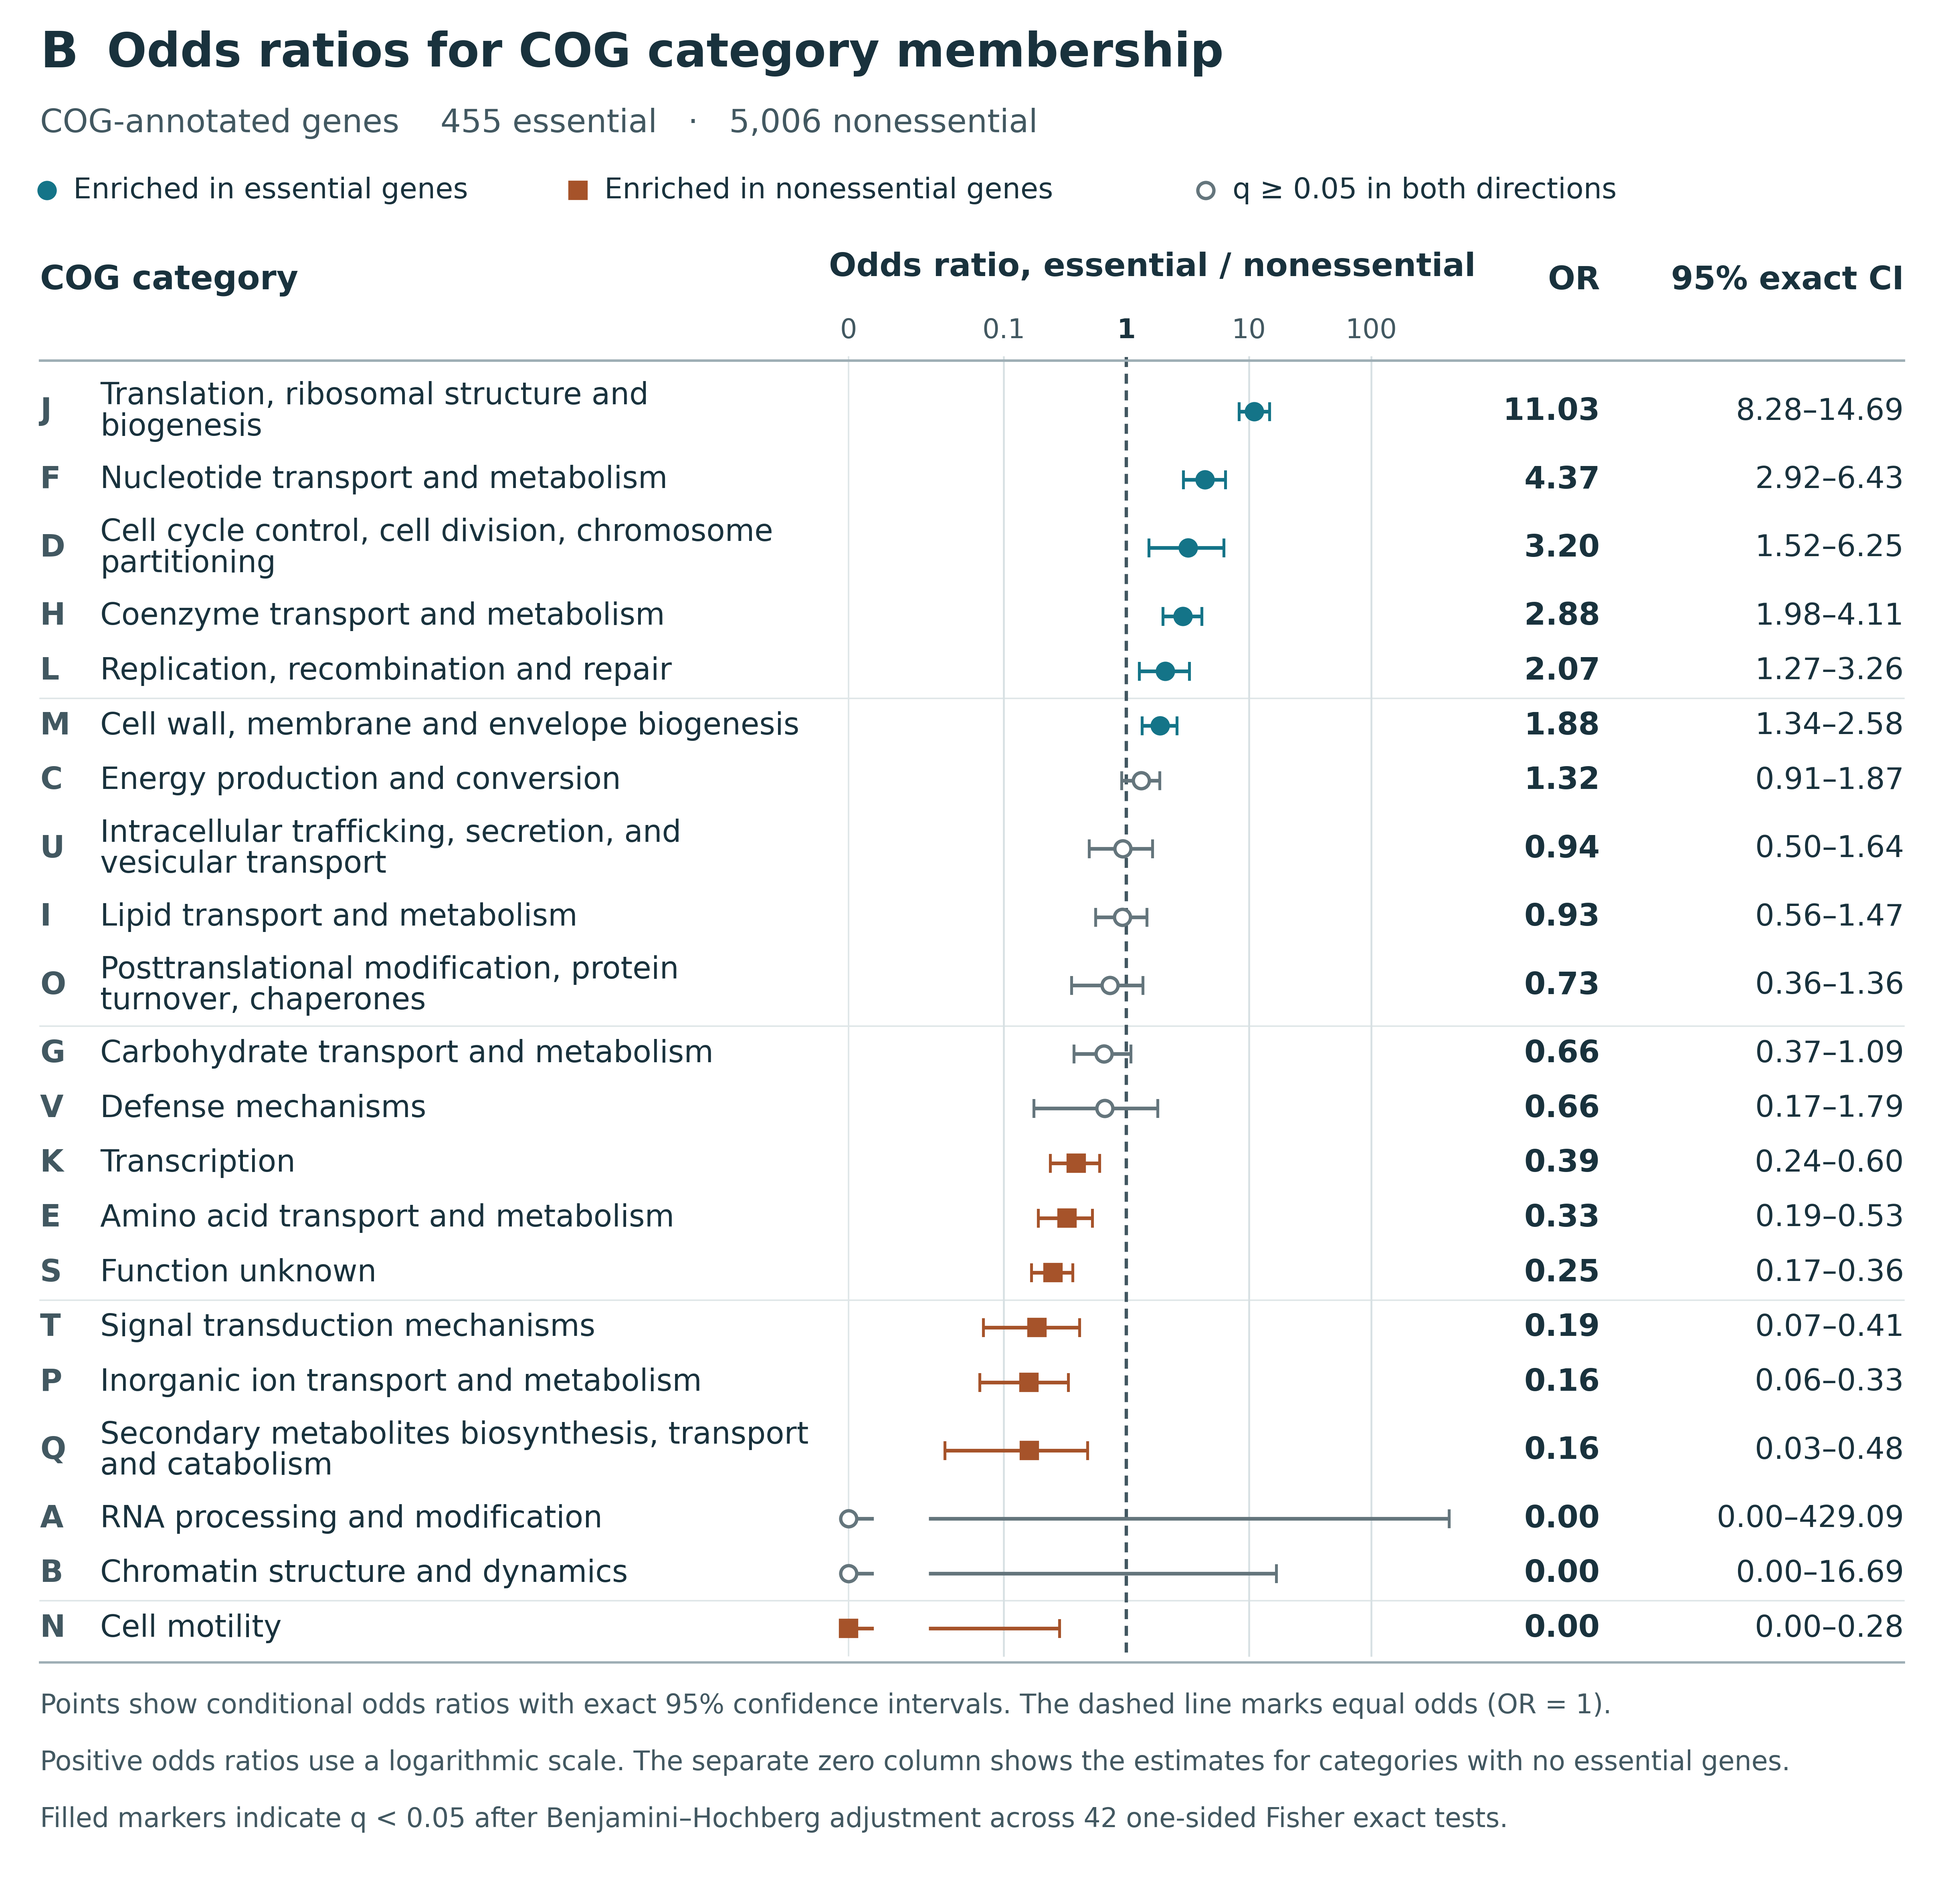
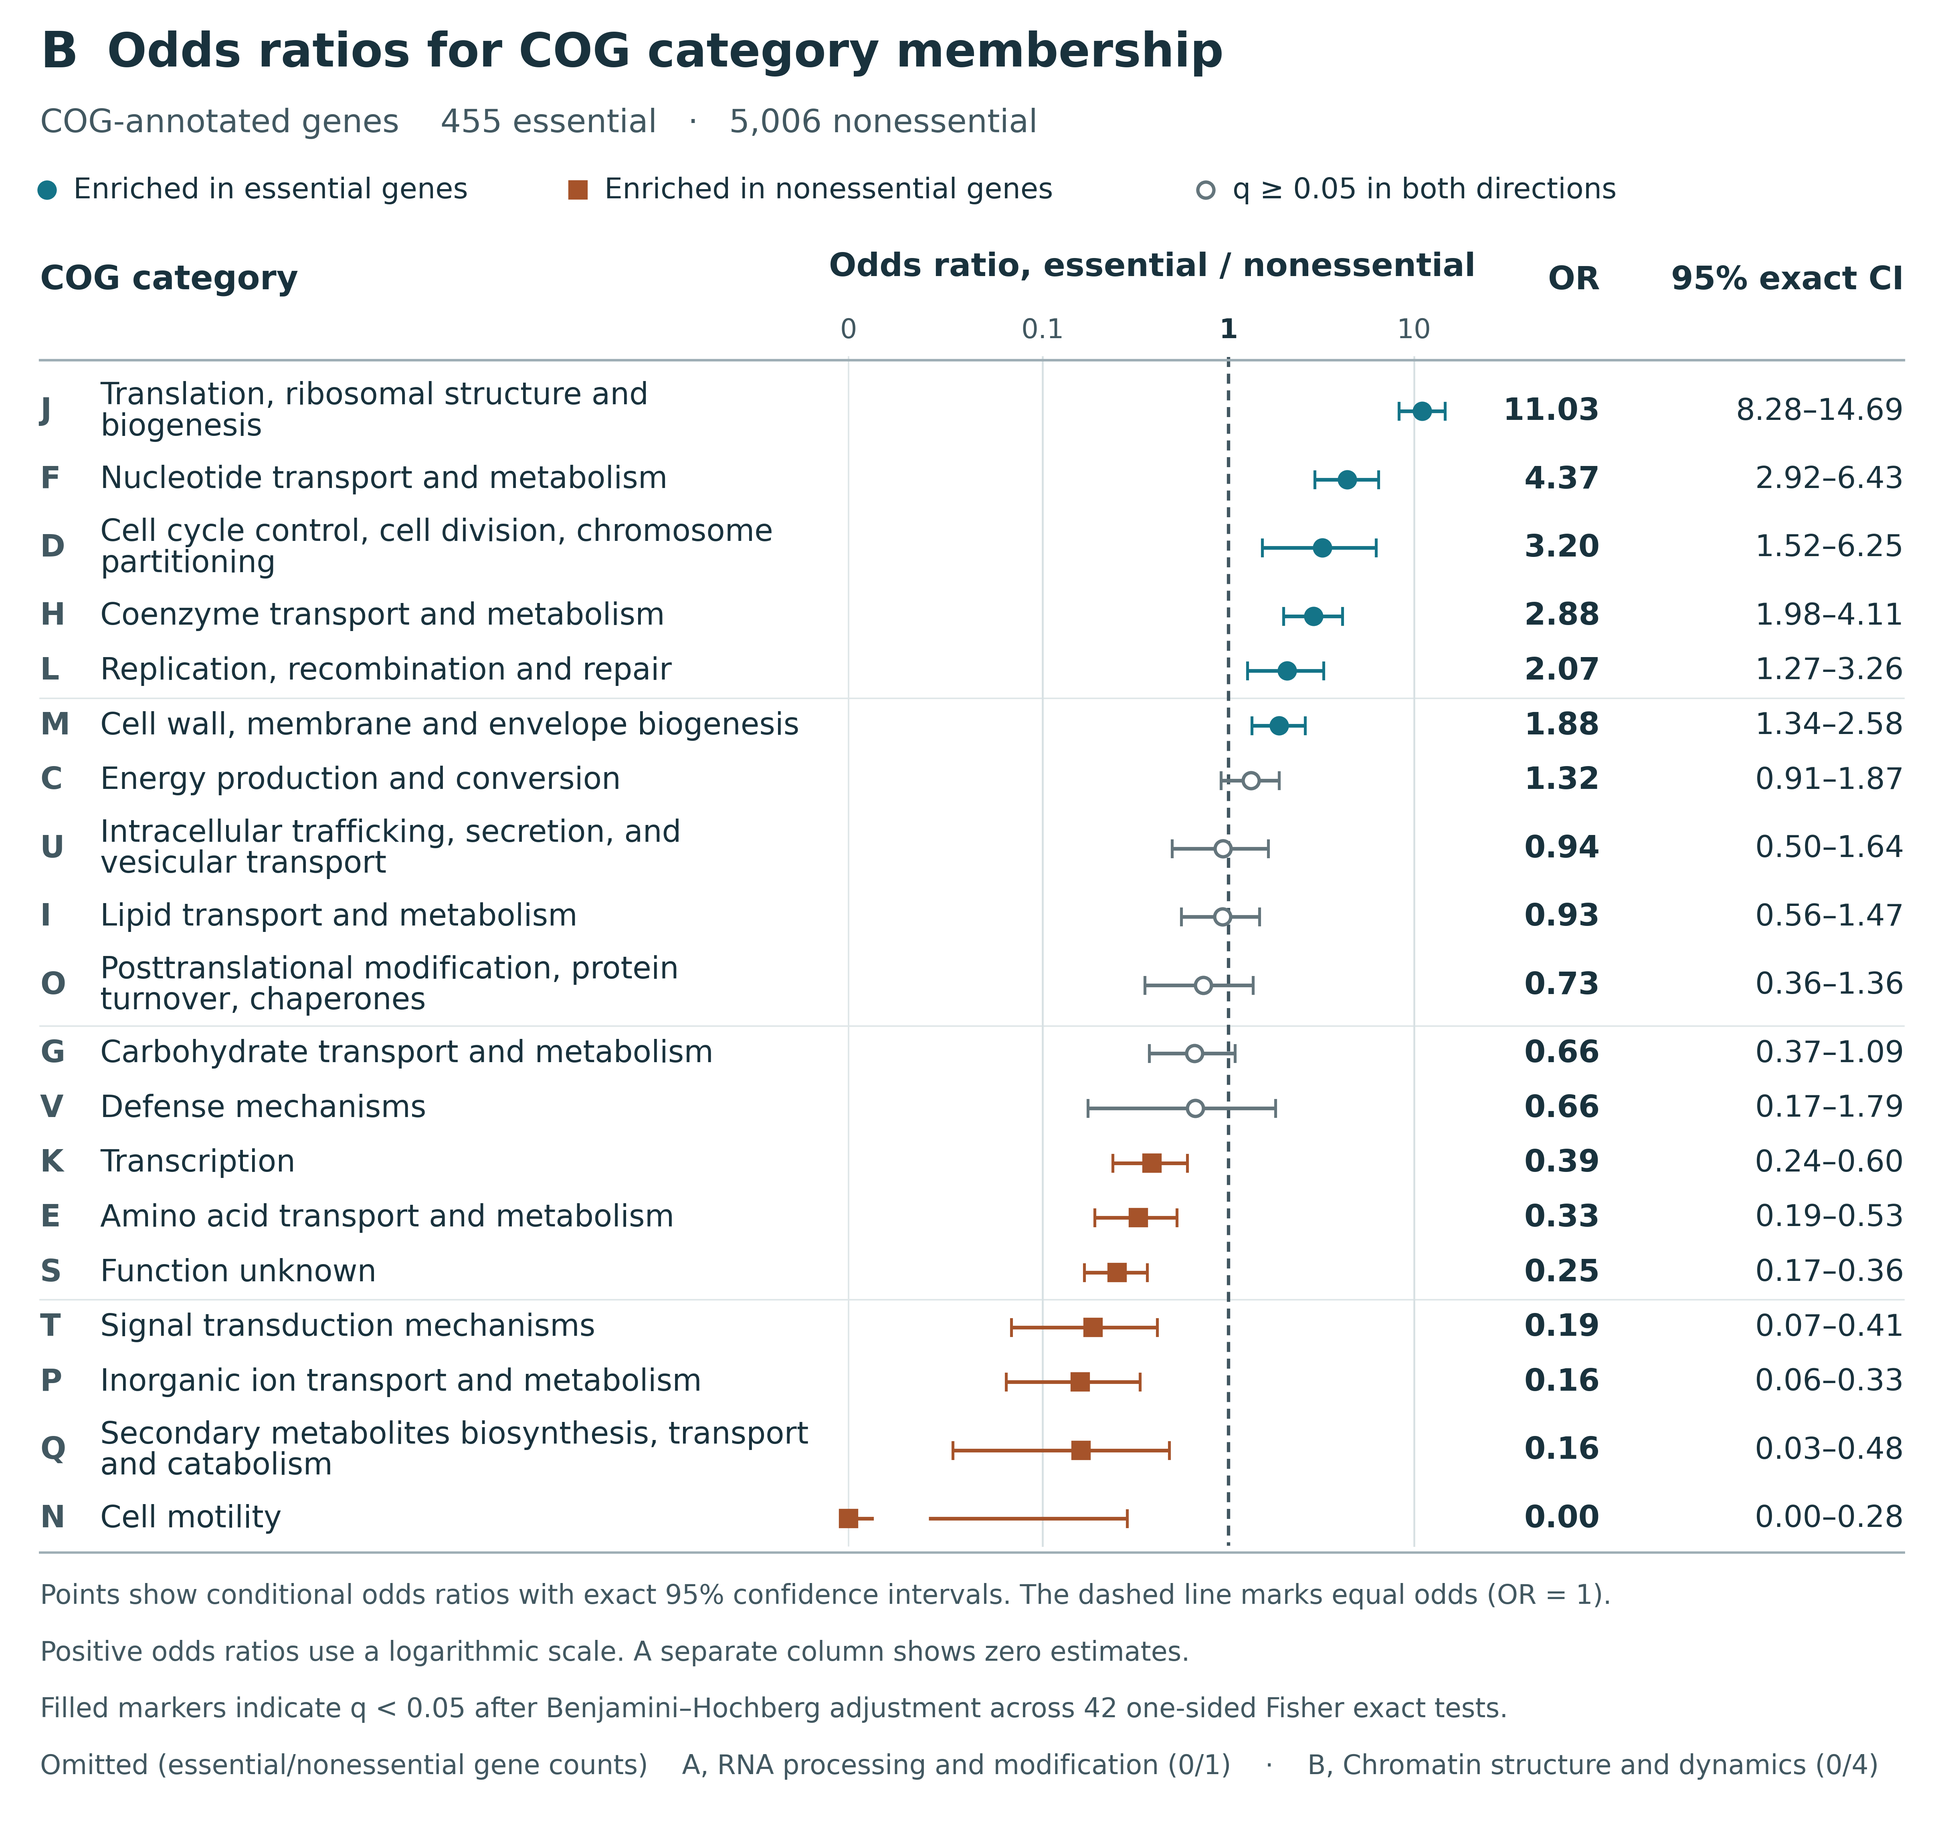
Report sparse COG categories in the Figure 4B legend

diff --git a/figures/figure_4/plot_figure_4b.py b/figures/figure_4/plot_figure_4b.py
@@ -16,7 +16,8 @@ ratio. The interval is its two-sided, equal-tailed exact 95% confidence
 interval conditional on the margins, without a pseudocount. The p and q values
 come from the two directional Fisher tests per category in Figure 4A, with a
 single Benjamini-Hochberg adjustment across all categories and directions.
-The categories follow the order of the prevalence ratios in Figure 4A.
+The plotted categories follow the order of the prevalence ratios in Figure 4A.
+Categories A and B are retained in the statistical results and listed in the figure legend.
 """
 
 import argparse
@@ -44,6 +45,7 @@ OR = "conditional_odds_ratio_essential_vs_nonessential"
 LOW = "exact_95ci_lower"
 HIGH = "exact_95ci_upper"
 COLUMNS = ("COG", "category", *COUNTS, OR, LOW, HIGH, *TESTS)
+LEGEND_ONLY = {"A", "B"}
 
 
 def read_table(path):
@@ -101,6 +103,12 @@ def prepare(data):
 
 def draw(data):
     entries, (essential_total, nonessential_total) = prepare(data)
+    test_count = 2 * len(entries)
+    entries = [entry for entry in entries if entry[0] not in LEGEND_ONLY]
+    if not entries:
+        raise ValueError("No categories remain to display.")
+    omitted = [f"{r['COG']}, {r['category']} ({r['essential_in_category']}/{r['nonessential_in_category']})"
+               for r in sorted(data, key=lambda r: r["COG"]) if r["COG"] in LEGEND_ONLY]
     # Layout coordinates are typographical points, with a dedicated lane for
     # zero. Positive odds ratios have a true logarithmic coordinate.
     width = 582
@@ -114,7 +122,7 @@ def draw(data):
         row_height = 16.4 if "\n" not in label else 24.5
         rendered.append((record, label, y + row_height / 2))
         y += row_height
-    baseline, height = y, y + 69
+    baseline, height = y, y + (83 if omitted else 69)
     fig = plt.figure(figsize=(width / 72, height / 72))
     ax = fig.add_axes([0, 0, 1, 1], xlim=(0, width), ylim=(height, 0))
     ax.axis("off")
@@ -189,10 +197,13 @@ def draw(data):
     ax.plot([left, interval_right], [baseline + 2, baseline + 2], lw=0.7, color="#9EAEB5")
     label(left, baseline + 15, "Points show conditional odds ratios with exact 95% confidence intervals. "
           "The dashed line marks equal odds (OR = 1).", 8, color=MUTED)
-    label(left, baseline + 32, "Positive odds ratios use a logarithmic scale. The separate zero column "
-          "shows the estimates for categories with no essential genes.", 8, color=MUTED)
+    label(left, baseline + 32, "Positive odds ratios use a logarithmic scale. A separate column shows "
+          "zero estimates.", 8, color=MUTED)
     label(left, baseline + 49, f"Filled markers indicate q < 0.05 after Benjamini–Hochberg adjustment "
-          f"across {2 * len(entries)} one-sided Fisher exact tests.", 8, color=MUTED)
+          f"across {test_count} one-sided Fisher exact tests.", 8, color=MUTED)
+    if omitted:
+        label(left, baseline + 66, "Omitted (essential/nonessential gene counts)    "
+              + "    ·    ".join(omitted), 8, color=MUTED)
     return fig
 
 
